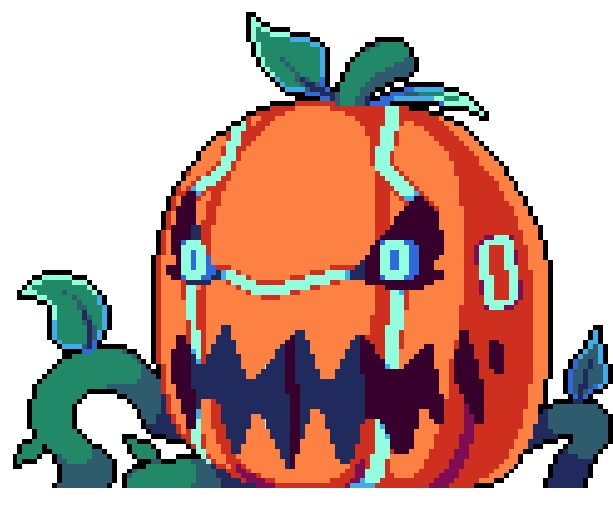
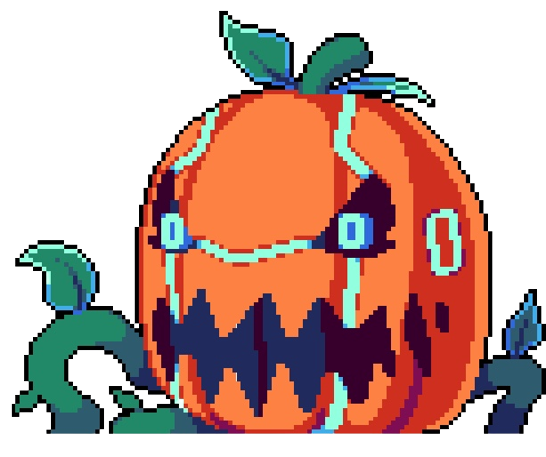
bijokml

diff --git a/sprites.py b/sprites.py
@@ -7,11 +7,13 @@ from constants import *
 class Hero(pygame.sprite.Sprite):
 
     lives: int = 3
+    gravity: int = 10 
 
     def __init__(self) -> None:
         super(Hero, self).__init__()
 
         self.surf = pygame.image.load(HERO).convert()
+        self.gravity = 1
         
         self.speed = HERO_SPEED
 
@@ -19,24 +21,26 @@ class Hero(pygame.sprite.Sprite):
         self.surf.set_colorkey((0, 0, 0), RLEACCEL)
 
     def update(self, pressed_keys) -> None:
+        
         if pressed_keys[K_LEFT]:
             self.rect.move_ip(-self.speed, 0)
         if pressed_keys[K_RIGHT]:
             self.rect.move_ip(self.speed, 0)
+        if random.randint(1, 5) == 5: 
+            self.rect.move_ip(0, self.gravity)
 
         if self.rect.left < 0:
             self.rect.left = 0
-        if self.rect.right > SCREEN_WIDTH:
-            self.rect.right = SCREEN_WIDTH
+        if self.rect.right > 875:
+            self.rect.right = 875
         if self.rect.top <= 50:
             self.rect.top = 50
-        if self.rect.bottom >= 550:
-            self.rect.bottom = 550
+        if self.rect.bottom >= 500:
+            self.rect.bottom = 500
+    
+    def jump(self):
+        self.rect.move_ip(0, -250)
 
-from constants import *
-import pygame
-from pygame.locals import RLEACCEL
-import random
 
 class Enemy(pygame.sprite.Sprite):
     """Evil pumpkin."""
@@ -52,7 +56,7 @@ class Enemy(pygame.sprite.Sprite):
         self.surf.set_colorkey((0, 0, 0), RLEACCEL)
 
         # Sets pumpkin to middle of the screen
-        self.rect = self.surf.get_rect(center = (750, 300))
+        self.rect = self.surf.get_rect(center = (750, 250))
 
 
 
@@ -61,20 +65,26 @@ class Projectile(pygame.sprite.Sprite):
 
     def __init__(self) -> None:
         # Super class initialization of the sprite
-        super(Enemy, self).__init__()
+        super(Projectile, self).__init__()
+
+        
 
         # Create the image for the enemy to be, convert it
         image_path = BULLET
         self.surf = pygame.image.load(image_path).convert()
+        self.surf = pygame.transform.scale(self.surf, (60, 60))
 
         # Remove the black background
         self.surf.set_colorkey((0, 0, 0), RLEACCEL)
 
         # Spawns the bullets from the pumpkin
-        self.rect = self.surf.get_rect(center = (800, BACKGROUND_HEIGHT / 2))
+        self.rect = self.surf.get_rect(center = (620, BACKGROUND_HEIGHT / 2))
 
         # Set their speed to the constant from the constants file
         self.speed = BULLET_SPEED
+
+    def update(self):
+        self.rect.move_ip(-self.speed, 0)
 
             
     

diff --git a/main.py b/main.py
@@ -3,17 +3,25 @@ from pygame.locals import K_ESCAPE, KEYDOWN, QUIT
 
 from background import *
 from constants import *
-from sprites_hero import *
+from sprites import *
 
 pygame.init()
 
+SHOOT_BULLETS = pygame.USEREVENT
+pygame.time.set_timer(SHOOT_BULLETS, TIMED_BULLET, NUM_BULLET)
+
 screen = pygame.display.set_mode([SCREEN_WIDTH, SCREEN_HEIGHT])
 background = Background()
-hero = Hero()
 enemy = Enemy()
+hero = Hero()
+projectile = Projectile()
+all_projectiles = pygame.sprite.Group()
 all_sprites = pygame.sprite.Group()
-all_sprites.add(hero)
 all_sprites.add(enemy)
+all_sprites.add(hero)
+all_sprites.add(projectile)
+all_projectiles.add(projectile)
+
 
 def main():
     running = True
@@ -24,6 +32,13 @@ def main():
             elif event.type == KEYDOWN:
                 if event.key == K_ESCAPE:
                     running = False
+                if event.key == K_UP: 
+                    hero.jump()
+            elif event.type == SHOOT_BULLETS:
+                new_bullet = Projectile()
+                all_sprites.add(new_bullet)
+                all_projectiles.add(new_bullet)
+                    
         background.render(screen)
 
         for sprite in all_sprites: 
@@ -32,6 +47,11 @@ def main():
         
         pressed_keys = pygame.key.get_pressed()
         hero.update(pressed_keys)
+        enemy.update(hero, enemy)
+
+        for projectile in all_projectiles: 
+            projectile.update()
+
         
         
 

diff --git a/constants.py b/constants.py
@@ -5,9 +5,10 @@ HERO = "assets/hero.png"
 HERO_SPEED = 1
 BACKGROUND = "assets/spooky_back.png"
 ENEMY = "assets/enemy_fr.png"
-BULLET_SPEED = 5
+BULLET_SPEED = 1
 TIMED_BULLET = random.randint(1000, 3000)
 BULLET = "assets/bullet_pump.png"
+NUM_BULLET = 100000000
 
 BACKGROUND_HEIGHT = 600 
 BACKGROUND_WIDTH = 900
